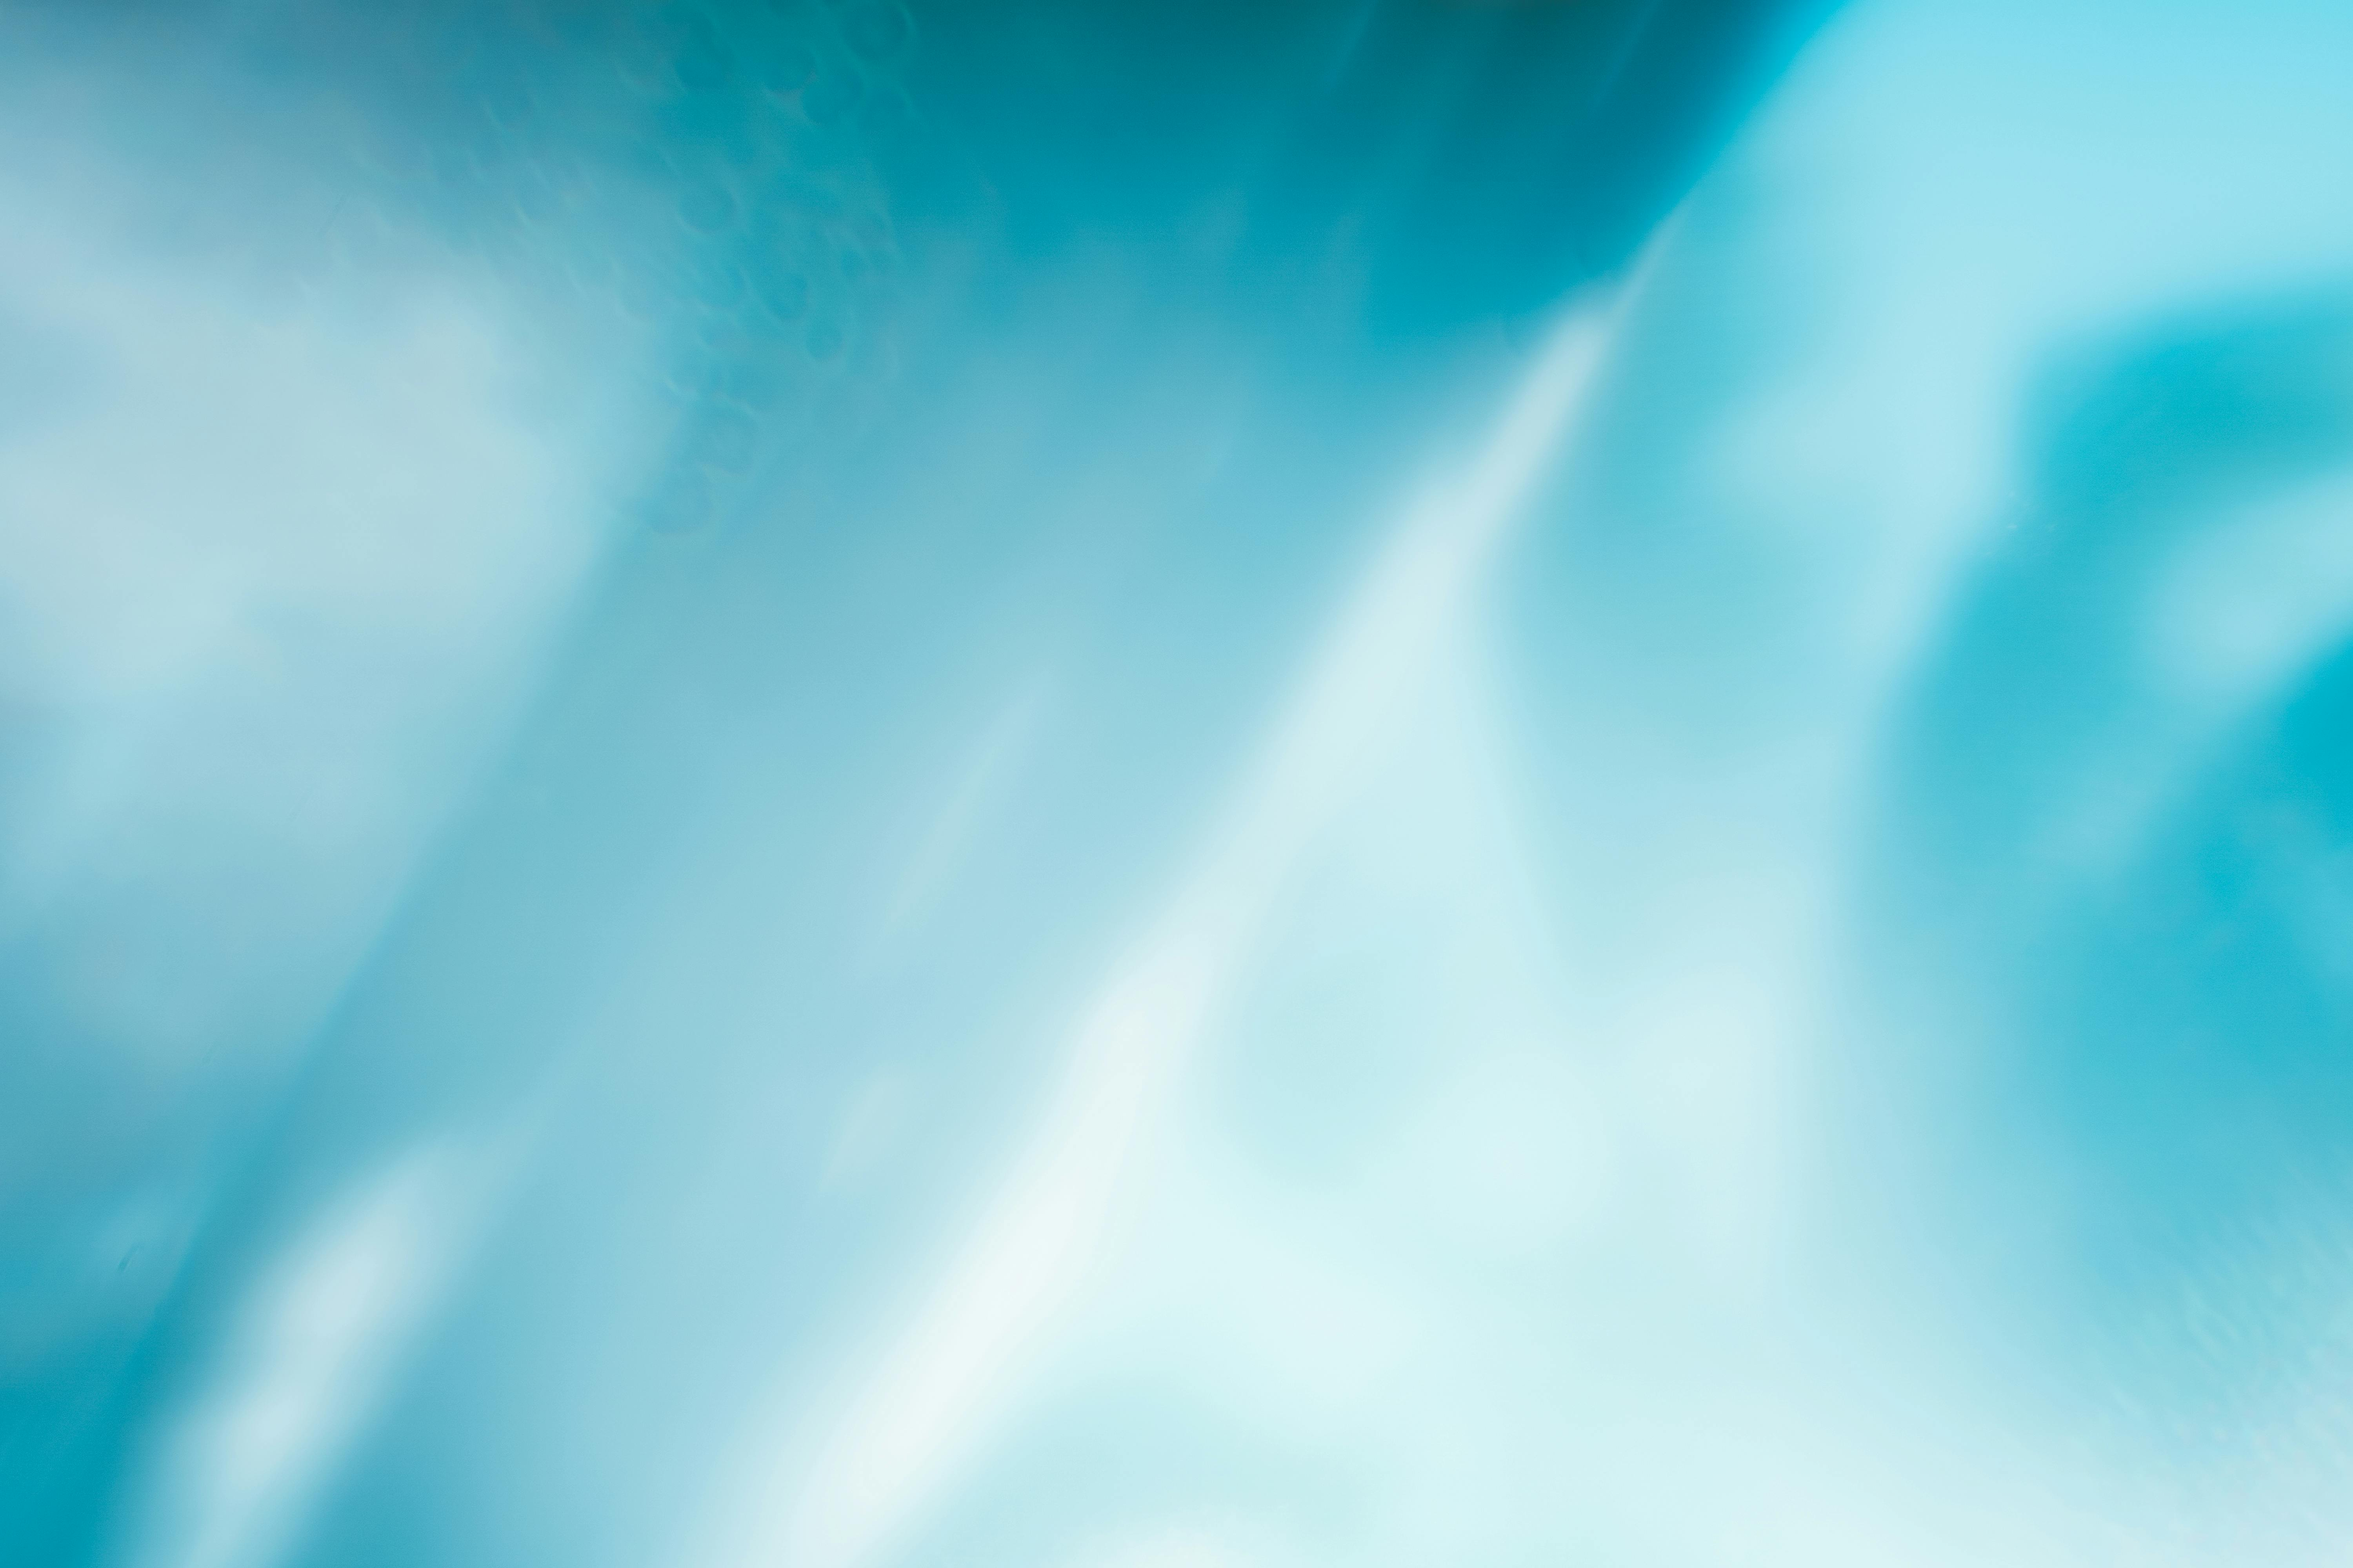
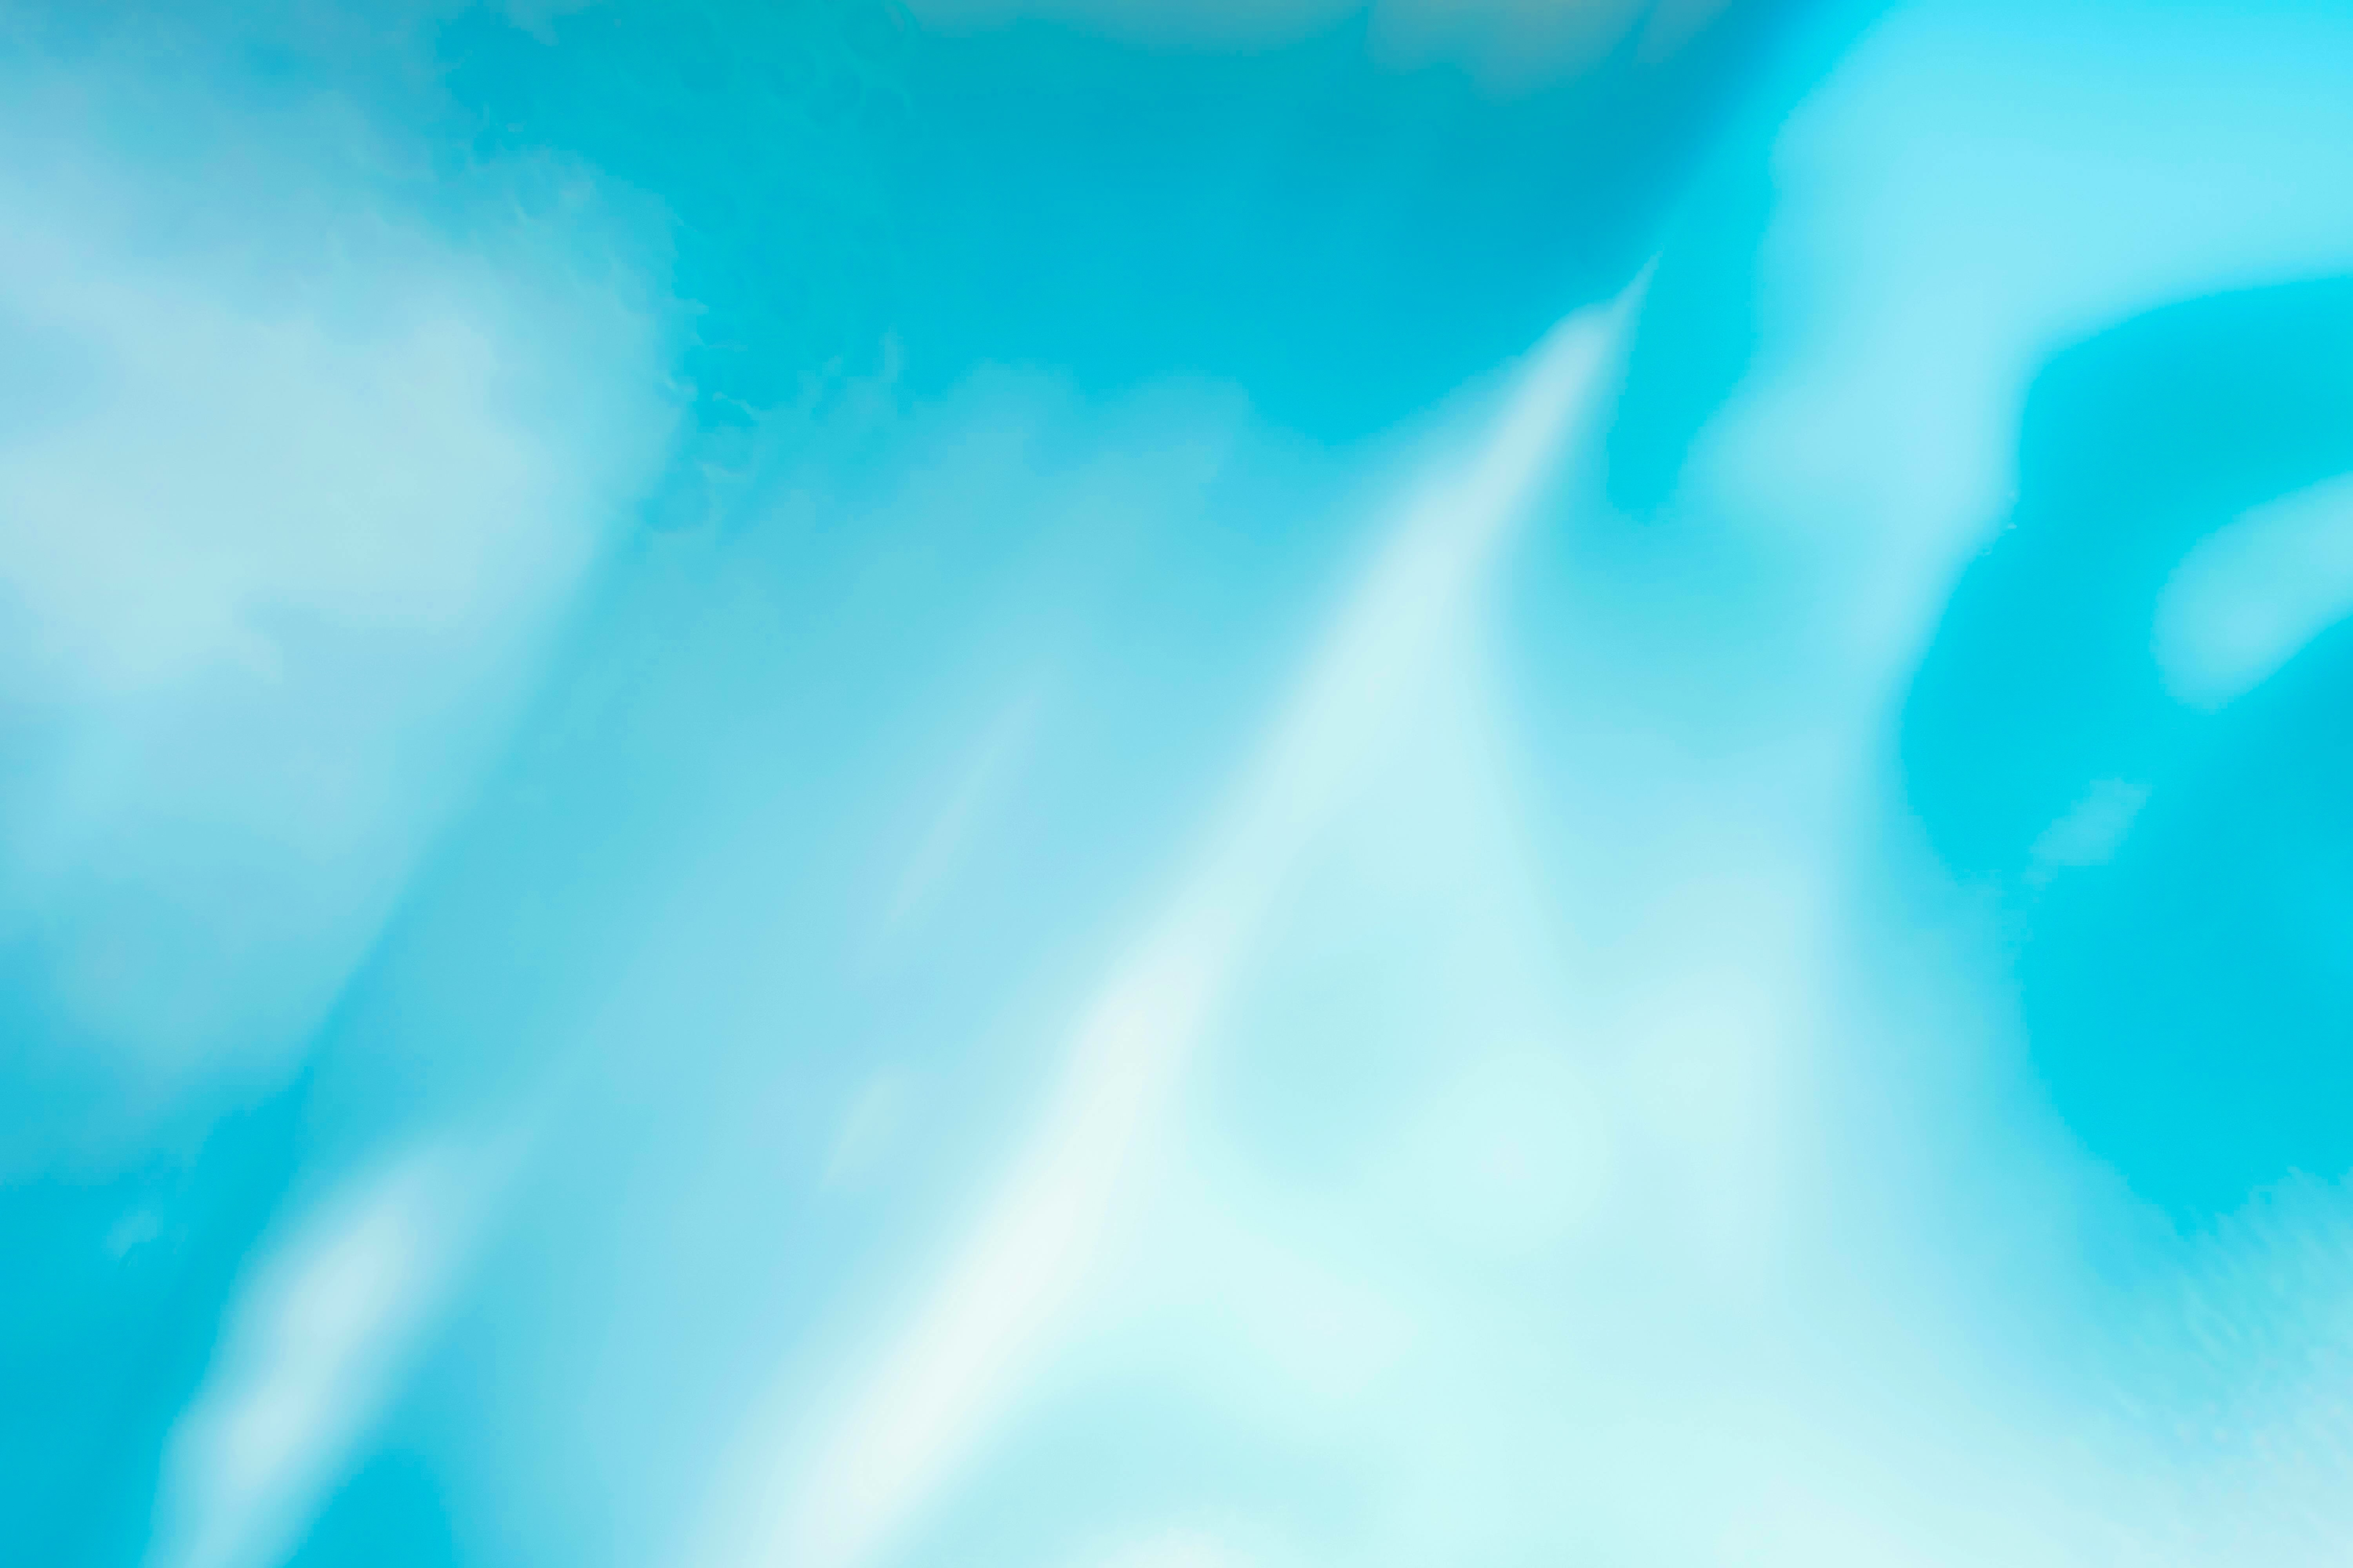
Added Experience Card with sample information. Minor UI adjustments throughout.

diff --git a/src/components/Experience/Experience.module.css b/src/components/Experience/Experience.module.css
@@ -1,0 +1,113 @@
+/* -------------------------------------------
+   EXPERIENCE CONTAINER
+------------------------------------------- */
+
+.container {
+    width: 75%; 
+    margin: 5vh auto;
+    padding: 2% 4%;
+    border-radius: 60px;
+    border: 1px solid rgba(255, 255, 255, 0.25);
+    
+    background: linear-gradient(
+        250deg,
+        rgba(255, 255, 255, .3) 60%,
+        rgba(229, 239, 255, 0.3)
+    );
+    backdrop-filter: blur(40px); 
+    
+    box-shadow:
+        -5px 10px 30px rgba(0, 0, 0, 0.2),
+        inset -2px 2px 4px rgba(255, 255, 255, 0.2);
+    
+    display: flex;
+    flex-direction: row;
+    align-items: center; 
+    gap: 25px;
+}
+
+.container p:not(.hyphen), h1, img {
+    background: linear-gradient(
+        250deg,
+        rgba(255, 255, 255, .2) 85%,
+        rgba(229, 239, 255, 0.2)
+    );
+    backdrop-filter: blur(40px); 
+    padding: 15px;
+    border-color: rgba(99, 134, 186, 0.556);
+    border-radius: 15px;
+    box-shadow:
+        -2px 5px 10px rgba(36, 36, 36, 0.2),
+        inset -2px 2px 2px rgba(255, 255, 255, 0.502);
+}
+
+/* -------------------------------------------
+   LEFT COLUMN
+------------------------------------------- */
+
+.leftColumn {
+    display: flex;
+    flex-direction: column;
+    gap: 20px;
+}
+
+.logo {
+    width: 125px;
+    height: 125px;
+}
+.company {
+    font-size: 40px; 
+    font-weight: bold;
+    margin: 0;
+}
+.position {
+    color: #4b5563; 
+    font-size: 30px;
+    margin: 0;
+}
+
+.logoDatesContainer {
+    display: flex;
+    flex-direction: row;
+    gap: 25px;
+    /* background-color: blue; */
+}
+
+.datesContainer {
+    display: flex;
+    flex-direction: column;
+    align-items: center;
+    /* background-color: red; */
+    justify-content: space-evenly;
+
+}
+
+.datesContainer p {
+    margin: 0;
+}
+
+.datesContainer .hyphen {
+    font-size: 24px;
+}
+
+.date {
+    /* background-color: blue; */
+    font-size: 20px;
+}
+
+/* -------------------------------------------
+   RIGHT COLUMN
+------------------------------------------- */
+
+.rightColumn {
+    display: flex;
+    flex-direction: column;
+    width: 75%
+}
+
+.description {
+    font-size: 26px;
+    color: #4b5563; 
+}
+
+

diff --git a/src/screens/HomeScreen/HomeScreen.jsx b/src/screens/HomeScreen/HomeScreen.jsx
@@ -1,15 +1,41 @@
 
 import Header from '../../components/Header/Header.jsx';
 import Intro from '../../components/Intro/Intro.jsx';
+import Experience from '../../components/Experience/Experience.jsx';
 import './HomeScreen.css';
+
+const texasInstruments = {
+  title: "Texas Instruments",
+  position: "Software Engineering Intern",
+  imageSource: "/images/texas-instruments-logo.png",
+  descriptions: [
+    "Built a C# driver translating TCP/IP commands to SECS/GEM protocol, enabling 24/7 load-and-go operations", 
+    "Engineered a C# conveyor control system to automate product transport and improve utilization across 200+ machines", 
+    "Implemented SQL logic to update product locations and log command history, ensuring reliable factory operations"],
+  startDate: "May 2024",
+  endDate: "Aug 2025"
+}
+
+const uMaineResearch = {
+  title: "University of Maine",
+  position: "AI Research Assistant",
+  imageSource: "/images/university-of-maine-logo.png",
+  descriptions: [
+    "Conducted a Wizard-of-Oz study on user interaction with artificial intelligence, focusing on trust in LLM outputs", 
+    "Developed a React application using the OpenAI API to seed errors in LLM outputs for participants to detect and correct",
+    "Experimented with prompt engineering and guardrails to introduce controlled LLM inaccuracies for user evaluation"],
+  startDate: "Sep 2024",
+  endDate: "May 2025"
+}
 
 const HomeScreen = () => {
   return (
     <div className = 'homeContainer'>
       <div className = 'scrollContainer'>
         <Header className = 'header' title="Brett Palmer"/>
-        <Intro title = "Brett"/>
-        <Intro title = "Brett"/>
+        <Experience experience = {texasInstruments}/>
+        <Experience experience = {uMaineResearch}/>
+        <Intro title = "Built a C# driver translating TCP/IP commands to SECS/GEM protocol, enabling 24/7 load-and-go operations"/>
         <Intro title = "Brett"/>
         <Intro title = "Brett"/>
       </div>

diff --git a/src/components/Experience/Experience.jsx b/src/components/Experience/Experience.jsx
@@ -1,0 +1,36 @@
+import styles from './Experience.module.css';
+
+function Experience({experience}) {
+    return (
+        <div className = {styles.container}>
+            <div className = {styles.leftColumn}>
+                <h1 className={styles.company}>{experience.title}</h1>
+                <p className={styles.position}>
+                    {experience.position}
+                </p>
+                <div className = {styles.logoDatesContainer}>
+                    <img
+                        src={experience.imageSource}
+                        alt = 'Logo'
+                        className = {styles.logo}
+                    />
+                    <div className={styles.datesContainer}>
+                        <p className={styles.date}>{experience.startDate}</p>
+                        <p className={styles.hyphen}>-</p>
+                        <p className={styles.date}>{experience.endDate}</p>
+                    </div>
+                </div>
+            </div>
+            <div className = {styles.rightColumn}>
+               {experience.descriptions.map((description => (
+                    <p className={styles.description}>
+                        • {description}
+                    </p>
+               )))}
+            </div>
+            {/* <ContactBar /> */}
+        </div>
+    )
+}
+
+export default Experience;

diff --git a/src/components/Header/Header.css b/src/components/Header/Header.css
@@ -31,8 +31,8 @@
         rgba(209, 224, 250, 0.662)
     );
   box-shadow:
-        0 10px 40px rgba(0, 0, 0, 0.2),
-        inset -2px -2px 2px rgba(255, 255, 255, 0.4);
+        -10px 10px 40px rgba(0, 0, 0, 0.2),
+        inset -3px 3px 2px rgba(255, 255, 255, 0.4);
 }
 
 /* -------------------------------------------
@@ -71,7 +71,7 @@
   text-shadow: 2px 2px 4px #ffffff;
   box-shadow:
     0 10px 20px rgba(36, 36, 36, 0.159),
-    inset -2px -2px 2px rgba(255, 255, 255, 0.502);
+    inset -2px 2px 2px rgba(255, 255, 255, 0.502);
   cursor: pointer;
 }
 

diff --git a/src/components/Intro/Intro.jsx b/src/components/Intro/Intro.jsx
@@ -3,7 +3,7 @@ import './Intro.css';
 
 function Intro(props) {
     return (
-        <div className = 'container'>
+        <div className = 'intro-container'>
             <img
                 src='/images/react-logo.png'
                 alt = 'Logo'

diff --git a/src/App.css b/src/App.css
@@ -2,9 +2,9 @@
   will-change: filter;
   transition: filter 300ms;
 }
-.logo:hover {
+/* .logo:hover {
   filter: drop-shadow(0 0 2em #646cffaa);
-}
+} */
 .logo.react:hover {
   filter: drop-shadow(0 0 2em #61dafbaa);
 }

diff --git a/src/screens/HomeScreen/HomeScreen.css b/src/screens/HomeScreen/HomeScreen.css
@@ -8,8 +8,7 @@
 .scrollContainer {
   flex: 1;
   overflow-y: auto;
-  /* display: flex;
-  flex-direction: column; */
   background-color: #dfe8fa;
   background-image: url('./images/background.jpg');
+
 }

diff --git a/src/components/Intro/Intro.css b/src/components/Intro/Intro.css
@@ -1,4 +1,4 @@
-.container {
+.intro-container {
     width: 85%;
     height: max(500px, 70vh);
     margin: 5vh auto;
